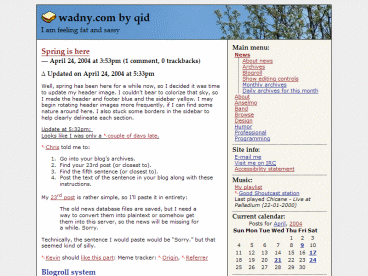
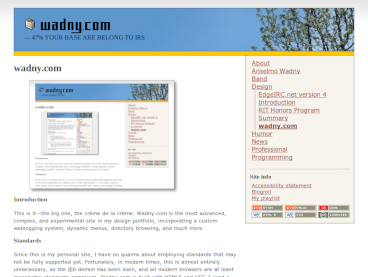
Minor updates to design pages

diff --git a/src/design/wadny.html b/src/design/wadny.html
@@ -3,27 +3,27 @@ title: wadny.com
 ---
 <figure><img src="/design/th_wadny.com.png" width="368" height="276" title="Wadny.com" alt="Wadny.com"></figure>
 <h3>Introduction</h3>
-<p>This is it—the big one, the creme de la creme. Wadny.com is the most advanced, complex, and experimental site in my
+<p>This is it—the big one, the crème de la crème. Wadny.com is the most advanced, complex, and experimental site in my
     design portfolio, incorporating a custom weblogging system, dynamic menus, directory browsing, and much more.</p>
 <h3>Standards</h3>
 <p>Since this is my personal site, I have no qualms about employing standards that may not be fully supported yet.
-    Wadny.com is built with <abbr title="eXtensible HyperText Markup Language">XHTML</abbr> 1.1 and <abbr
-        title="Cascading Style Sheets">CSS</abbr> 2 (and in some cases CSS3, which is not a finished standard yet).
-    Nearly every page validates properly, and I even use the correct <abbr
-        title="Multipurpose Internet Mail Extensions">MIME</abbr> type (<code>application/xhtml+xml</code>) for those
-    browsers that support it. Wadny.com is also <a href="/about/accessibility/"
-        title="My accessibility statement">highly accessible</a>.</p>
+    Fortunately, in modern times, this is almost entirely unnecessary, as the <abbr title="Internet Explorer">IE</abbr>6
+    demon has been slain, and all modern browsers are at least reasonably standards-compliant. Wadny.com is built with
+    <abbr title="HyperText Markup Language">HTML</abbr>5 and <abbr title="Cascading Style Sheets">CSS</abbr> 2 (and a
+    little CSS3). Every page should validate properly, including the CSS. Wadny.com is also <a
+        href="/about/accessibility/" title="My accessibility statement">highly accessible</a>.</p>
 <h3>Visual design</h3>
 <p>Being a weblog, wadny.com is designed with the typical two-column layout. The visual design is intended to be simple
-    and readable, with the slightly gray background helping to emphasize the content in the middle, which has a plain
-    white background. The sidebar is shaded to add a little color to the page; the color of the sidebar changes
-    depending on the header I use. During the winter, I had a yellow-shaded header, so the sidebar was tinted blue. In
-    the spring, I changed to a blue header, so the sidebar became yellow-tinted. The footer always matches the header.
-</p>
+    and readable, and scale cleanly with adjusted font sizes. The yellow line between the header and content is the
+    “theme color” of wadny.com, dating back long ago to designs I don’t even have any record of. The sidebar is shaded
+    to add a little more color to the page; the color of the sidebar changes depending on the header I use. During the
+    winter, I had a yellow-shaded header, so the sidebar was tinted blue. In the spring, I changed to a blue header, so
+    the sidebar became yellow-tinted.</p>
 <p>For visual display, body text uses a simple sans-serif font (probably Verdana) and headings use a serif font
     (hopefully Palatino Linotype). For print display, however, body text switches to a serif font (probably Georgia) for
     improved readability on paper. This is thanks to CSS media types.</p>
 <h3>Technology</h3>
+<p>TODO: Rewrite all this, along with the colophon.</p>
 <p>Wadny.com is written entirely in PHP, with a MySQL database storing news posts, comments, and a handful of other
     things. This allows me to quickly and easily add pages and sections, rearrange the site, and control how my page is
     served up. It also allows for dynamic content, such as the icon and tagline in the heading, and the calendar in the

diff --git a/src/design/intro.html b/src/design/intro.html
@@ -5,18 +5,14 @@ navSectionTitle: Design
 ---
 <h2>My design portfolio</h2>
 <p>Over the years, I have created a number of website designs—some have been used, many have not. This section is an
-    archive of all of the designs I still have a copy of, or
-    at least a screenshot of. I have created separate pages for some of my newer (and, I think, better) designs. All of
-    the other designs are listed together, with short summaries,
-    on the <a href="design/summary/">Summary</a> page. Many of those designs are old, and make use of technologies that
-    have since become outdated, and thus should not
-    be considered examples of good contemporary websites. The separate portfolio pages, however, should be reasonably
-    current.</p>
+    archive of all of the designs I still have a copy of, or at least a screenshot of. I have created separate pages for
+    some of my newer (and, I think, better) designs. All of the other designs are listed together, with short summaries,
+    on the <a href="/design/summary/">Summary</a> page. Many of those designs are old, and make use of technologies that
+    have since become outdated, and thus should not be considered examples of good contemporary websites. The separate
+    portfolio pages, however, should be reasonably current.</p>
 <h2>Individual portfolio sites</h2>
 <p>Currently, there are three sites with individual portfolios: EdgeIRC 4, RIT Honors, and Wadny.com. <a
-        href="/design/edgeirc4/">EdgeIRC 4</a> is the fourth version
-    of edgeirc.net, and as of this writing is the current design used on that website. <a href="/design/rithonors/">RIT
-        Honors</a> is the design for the student-run
+        href="/design/edgeirc4/">EdgeIRC 4</a> is the fourth version of edgeirc.net, and as of this writing is the
+    current design used on that website. <a href="/design/rithonors/">RIT Honors</a> is the design for the student-run
     website on the <abbr title="Rochester Institute of Technology">RIT</abbr> Honors Program server. <a
-        href="/design/wadny.com/">Wadny.com</a> is the website
-    you’re looking at.</p>
+        href="/design/wadny/">Wadny.com</a> is the website you’re looking at.</p>

diff --git a/src/index.html b/src/index.html
@@ -6,8 +6,7 @@ layout: noheading
         <p>Still to do:</p>
         <ul>
             <li>About - Colophon - Site History: update</li>
-            <li>Design - EdgeIRC 4: resurrect as design studies</li>
-            <li>Design - wadny.com: update, new screenshot</li>
+            <li>Design - wadny.com: update</li>
             <li>The entire programming section</li>
         </ul>
         <hr>
